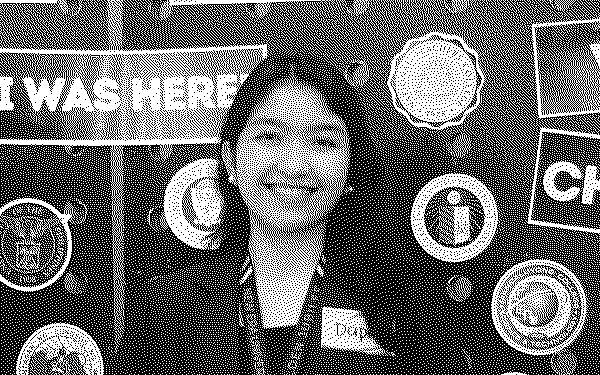
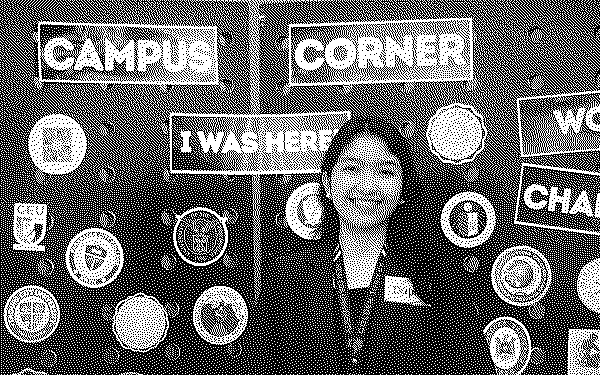
ASEAN story: solo photo less zoomed (wide thumbnail, 3x2 slot, caption strip trimmed)

diff --git a/events/asean-youth-summit-2026.html b/events/asean-youth-summit-2026.html
@@ -93,8 +93,8 @@
           <button class="shot" type="button" data-full="../assets/img/events/asean-youth-summit-2026/01.webp" style="--at:3/1/5/4" aria-label="Open photo 1 of 6"><img src="../assets/img/events/asean-youth-summit-2026/01-thumb.webp" alt="Summit table sign beside the flags of ASEAN member states" loading="lazy"/></button>
           <button class="shot" type="button" data-full="../assets/img/events/asean-youth-summit-2026/02.webp" style="--at:3/4/5/7" aria-label="Open photo 2 of 6"><img src="../assets/img/events/asean-youth-summit-2026/02-thumb.webp" alt="Atty. Marco Cicero F. Domingo of CHED NCR giving the opening message" loading="lazy"/></button>
           <button class="shot" type="button" data-full="../assets/img/events/asean-youth-summit-2026/03.webp" style="--at:5/3/7/7" aria-label="Open photo 3 of 6"><img src="../assets/img/events/asean-youth-summit-2026/03-thumb.webp" alt="Panel session Q&amp;A in front of the ASEAN flags and the Every Nation, Every Campus sign" loading="lazy"/></button>
-          <button class="shot" type="button" data-full="../assets/img/events/asean-youth-summit-2026/04.webp?v=2" style="--at:1/5/3/7" aria-label="Open photo 4 of 6"><img src="../assets/img/events/asean-youth-summit-2026/04-thumb.webp?v=2" alt="Joana at the Campus Corner wall of school seals" loading="lazy"/></button>
-          <button class="shot" type="button" data-full="../assets/img/events/asean-youth-summit-2026/05.webp" style="--at:1/1/3/5" aria-label="Open photo 5 of 6"><img src="../assets/img/events/asean-youth-summit-2026/05-thumb.webp" alt="Group photo of the student leaders who attended the summit" loading="lazy"/></button>
+          <button class="shot" type="button" data-full="../assets/img/events/asean-youth-summit-2026/04.webp?v=2" style="--at:1/4/3/7" aria-label="Open photo 4 of 6"><img src="../assets/img/events/asean-youth-summit-2026/04-thumb.webp?v=4" alt="Joana at the Campus Corner wall of school seals" loading="lazy"/></button>
+          <button class="shot" type="button" data-full="../assets/img/events/asean-youth-summit-2026/05.webp" style="--at:1/1/3/4" aria-label="Open photo 5 of 6"><img src="../assets/img/events/asean-youth-summit-2026/05-thumb.webp" alt="Group photo of the student leaders who attended the summit" loading="lazy"/></button>
           <button class="shot" type="button" data-full="../assets/img/events/asean-youth-summit-2026/06.webp" style="--at:5/1/7/3" aria-label="Open photo 6 of 6"><img src="../assets/img/events/asean-youth-summit-2026/06-thumb.webp" alt="Certificate of participation for Joana Daphne T. Sy from CHED NCR" loading="lazy"/></button>
         </div>
         <p class="credit micro">official photos by mr. kio antonio magno (university of the philippines, diliman) · <a class="tl" href="https://lnkd.in/gnmgQru5" target="_blank" rel="noopener">event feature <span class="arr">↗</span></a> · <a class="tl" href="https://www.linkedin.com/posts/dvphnc_aseancampusconnectncr2026-chedncr-youthleadership-activity-7506687305001136129-OFs1/" target="_blank" rel="noopener">original post on linkedin <span class="arr">↗</span></a></p>

diff --git a/index.html b/index.html
@@ -247,7 +247,7 @@
             <article class="ev-card">
               <div class="ev-photo" data-slides>
                 <span class="ev-slide is-on"><img class="ev-dither" src="assets/img/events/asean-youth-summit-2026/cover-800-dither.png" width="600" height="375" alt="" aria-hidden="true" loading="lazy"/><img class="ev-color" src="assets/img/events/asean-youth-summit-2026/cover-800.webp?v=2" width="800" height="533" alt="Student leader panel on stage at the ASEAN youth leadership summit" loading="lazy"/></span>
-                <span class="ev-slide"><img class="ev-dither" src="assets/img/events/asean-youth-summit-2026/04-thumb-dither.png" width="600" height="375" alt="" aria-hidden="true" loading="lazy"/><img class="ev-color" src="assets/img/events/asean-youth-summit-2026/04-thumb.webp?v=2" alt="" aria-hidden="true" loading="lazy"/></span>
+                <span class="ev-slide"><img class="ev-dither" src="assets/img/events/asean-youth-summit-2026/04-thumb-dither.png?v=4" width="600" height="375" alt="" aria-hidden="true" loading="lazy"/><img class="ev-color" src="assets/img/events/asean-youth-summit-2026/04-thumb.webp?v=4" alt="" aria-hidden="true" loading="lazy"/></span>
                 <span class="ev-slide"><img class="ev-dither" src="assets/img/events/asean-youth-summit-2026/02-thumb-dither.png" width="600" height="375" alt="" aria-hidden="true" loading="lazy"/><img class="ev-color" src="assets/img/events/asean-youth-summit-2026/02-thumb.webp" alt="" aria-hidden="true" loading="lazy"/></span>
                 <span class="ev-slide"><img class="ev-dither" src="assets/img/events/asean-youth-summit-2026/03-thumb-dither.png" width="600" height="375" alt="" aria-hidden="true" loading="lazy"/><img class="ev-color" src="assets/img/events/asean-youth-summit-2026/03-thumb.webp" alt="" aria-hidden="true" loading="lazy"/></span>
                 <span class="ev-slide"><img class="ev-dither" src="assets/img/events/asean-youth-summit-2026/01-thumb-dither.png" width="600" height="375" alt="" aria-hidden="true" loading="lazy"/><img class="ev-color" src="assets/img/events/asean-youth-summit-2026/01-thumb.webp" alt="" aria-hidden="true" loading="lazy"/></span>
